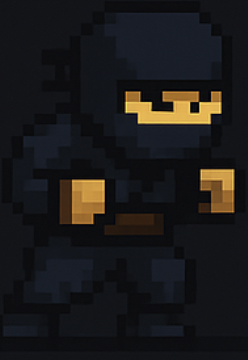
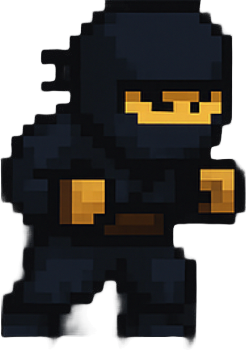
Removed Background

diff --git a/Level2.py b/Level2.py
@@ -8,6 +8,7 @@ from Level1 import Level1
 from Level import Level
 from Helper import jungle_conversion
 from Banana import Banana
+from Enemies import Enemy
 SCREENW = 800
 SCREENH = 800
 
@@ -65,5 +66,27 @@ class Level2(Level1):
         Banana4 = Banana(320, 420, 50, 50)
         all_sprites_list.add(Banana4)
 
+        return all_sprites_list
+
+    def Enemy(self):
+        animations = [
+            pygame.transform.scale(pygame.image.load("Characters/Enemy/Enemy2/Enemy2_Stationary.png"), (100,100)),
+            pygame.transform.scale(pygame.image.load("Characters/DIDDY_KONG/jump.png"), (100,100)),
+            pygame.transform.scale(pygame.image.load("Characters/DIDDY_KONG/fall.png"), (100,100)),
+            pygame.transform.scale(pygame.image.load("Characters/Enemy/Enemy2/Enemy2_Moving_Right1.png"), (100,100)),
+            pygame.transform.scale(pygame.image.load("Characters/Enemy/Enemy2/Enemy2_Moving_Right2.png"), (100,100)),
+            pygame.transform.scale(pygame.image.load("Characters/Enemy/Enemy2/Enemy2_Moving_Left1.png"), (100,100)),
+            pygame.transform.scale(pygame.image.load("Characters/Enemy/Enemy2/Enemy2_Moving_Left2.png"), (100,100)),
+        ]
+        all_sprites_list = pygame.sprite.Group()
+
+        Enemy1 = Enemy(320, 380, 100, 100, self.Platform(), animations)
+        all_sprites_list.add(Enemy1)
+
+        Enemy2 = Enemy(220, 80, 100, 100, self.Platform(), animations)
+        all_sprites_list.add(Enemy2)
+
+        Enemy3 = Enemy(520, 280, 100, 100, self.Platform(), animations)
+        all_sprites_list.add(Enemy3)
         return all_sprites_list
 

diff --git a/Level3.py b/Level3.py
@@ -7,6 +7,7 @@ from HealthBar import HealthBar
 from Level1 import Level1
 from Helper import jungle_conversion
 from Banana import Banana
+from Enemies import Enemy
 SCREENW = 800
 SCREENH = 800
 
@@ -66,5 +67,27 @@ class Level3(Level1):
         Banana4 = Banana(320, 420, 50, 50)
         all_sprites_list.add(Banana4)
 
+        return all_sprites_list
+
+    def Enemy(self):
+        animations = [
+            pygame.transform.scale(pygame.image.load("Characters/Enemy/Enemy3/Enemy3_Stationary.png"), (100,100)),
+            pygame.transform.scale(pygame.image.load("Characters/DIDDY_KONG/jump.png"), (100,100)),
+            pygame.transform.scale(pygame.image.load("Characters/DIDDY_KONG/fall.png"), (100,100)),
+            pygame.transform.scale(pygame.image.load("Characters/Enemy/Enemy3/Enemy3_Move_Right1.png"), (100,100)),
+            pygame.transform.scale(pygame.image.load("Characters/Enemy/Enemy3/Enemy3_Move_Right2.png"), (100,100)),
+            pygame.transform.scale(pygame.image.load("Characters/Enemy/Enemy3/Enemy3_Move_Left1.png"), (100,100)),
+            pygame.transform.scale(pygame.image.load("Characters/Enemy/Enemy3/Enemy3_Move_Left2.png"), (100,100)),
+        ]
+        all_sprites_list = pygame.sprite.Group()
+
+        Enemy1 = Enemy(320, 380, 100, 100, self.Platform(), animations)
+        all_sprites_list.add(Enemy1)
+
+        Enemy2 = Enemy(220, 80, 100, 100, self.Platform(), animations)
+        all_sprites_list.add(Enemy2)
+
+        Enemy3 = Enemy(520, 280, 100, 100, self.Platform(), animations)
+        all_sprites_list.add(Enemy3)
         return all_sprites_list
 

diff --git a/Level1.py b/Level1.py
@@ -82,15 +82,24 @@ class Level1(Level):
         return all_sprites_list
 
     def Enemy(self):
+        animations = [
+            pygame.transform.scale(pygame.image.load("Characters/Enemy/Enemy1/Enemy_Stationary.png"), (100,100)),
+            pygame.transform.scale(pygame.image.load("Characters/DIDDY_KONG/jump.png"), (100,100)),
+            pygame.transform.scale(pygame.image.load("Characters/DIDDY_KONG/fall.png"), (100,100)),
+            pygame.transform.scale(pygame.image.load("Characters/Enemy/Enemy1/Enemy_Moving_Right1.png"), (100,100)),
+            pygame.transform.scale(pygame.image.load("Characters/Enemy/Enemy1/Enemy_Moving_Right2.png"), (100,100)),
+            pygame.transform.scale(pygame.image.load("Characters/Enemy/Enemy1/Enemy_Moving_Left1.png"), (100,100)),
+            pygame.transform.scale(pygame.image.load("Characters/Enemy/Enemy1/Enemy_Moving_Left2.png"), (100,100)),
+        ]
         all_sprites_list = pygame.sprite.Group()
 
-        Enemy1 = Enemy(320, 380, 100, 100, self.Platform())
+        Enemy1 = Enemy(320, 380, 100, 100, self.Platform(), animations)
         all_sprites_list.add(Enemy1)
 
-        Enemy2 = Enemy(220, 80, 100, 100, self.Platform())
+        Enemy2 = Enemy(220, 80, 100, 100, self.Platform(), animations)
         all_sprites_list.add(Enemy2)
 
-        Enemy3 = Enemy(520, 280, 100, 100, self.Platform())
+        Enemy3 = Enemy(520, 280, 100, 100, self.Platform(), animations)
         all_sprites_list.add(Enemy3)
         return all_sprites_list
 

diff --git a/Enemies.py b/Enemies.py
@@ -5,26 +5,17 @@ WIDTH     =  50
 HEIGHT    =  50
 
 class Enemy(pygame.sprite.Sprite):
-    def __init__(self, x, y, w, h, platforms):
+    def __init__(self, x, y, w, h, platforms, animations):
         super(Enemy, self).__init__()
-        self.image = pygame.image.load("Characters/Enemy/Enemy1/Enemy_Stationary.png")
+        self.image = animations[0]
         size = (w, h)
-        self.image = pygame.transform.scale(self.image, size)
         self.rect = self.image.get_rect(topleft=(x, y))
         self.velX = 0
         self.turn = 0
         self.switch = True
         self.rate = 15
         self.r_final = 10
-        self.animations = [
-            self.image,
-            pygame.transform.scale(pygame.image.load("Characters/DIDDY_KONG/jump.png"), size),
-            pygame.transform.scale(pygame.image.load("Characters/DIDDY_KONG/fall.png"), size),
-            pygame.transform.scale(pygame.image.load("Characters/Enemy/Enemy1/Enemy_Moving_Right1.png"), size),
-            pygame.transform.scale(pygame.image.load("Characters/Enemy/Enemy1/Enemy_Moving_Right2.png"), size),
-            pygame.transform.scale(pygame.image.load("Characters/Enemy/Enemy1/Enemy_Moving_Left1.png"), size),
-            pygame.transform.scale(pygame.image.load("Characters/Enemy/Enemy1/Enemy_Moving_Left2.png"), size),
-        ]
+        self.animations = animations
         self.hp = 40
 
         self.platform_bounds = self.get_platform_bounds(platforms)
